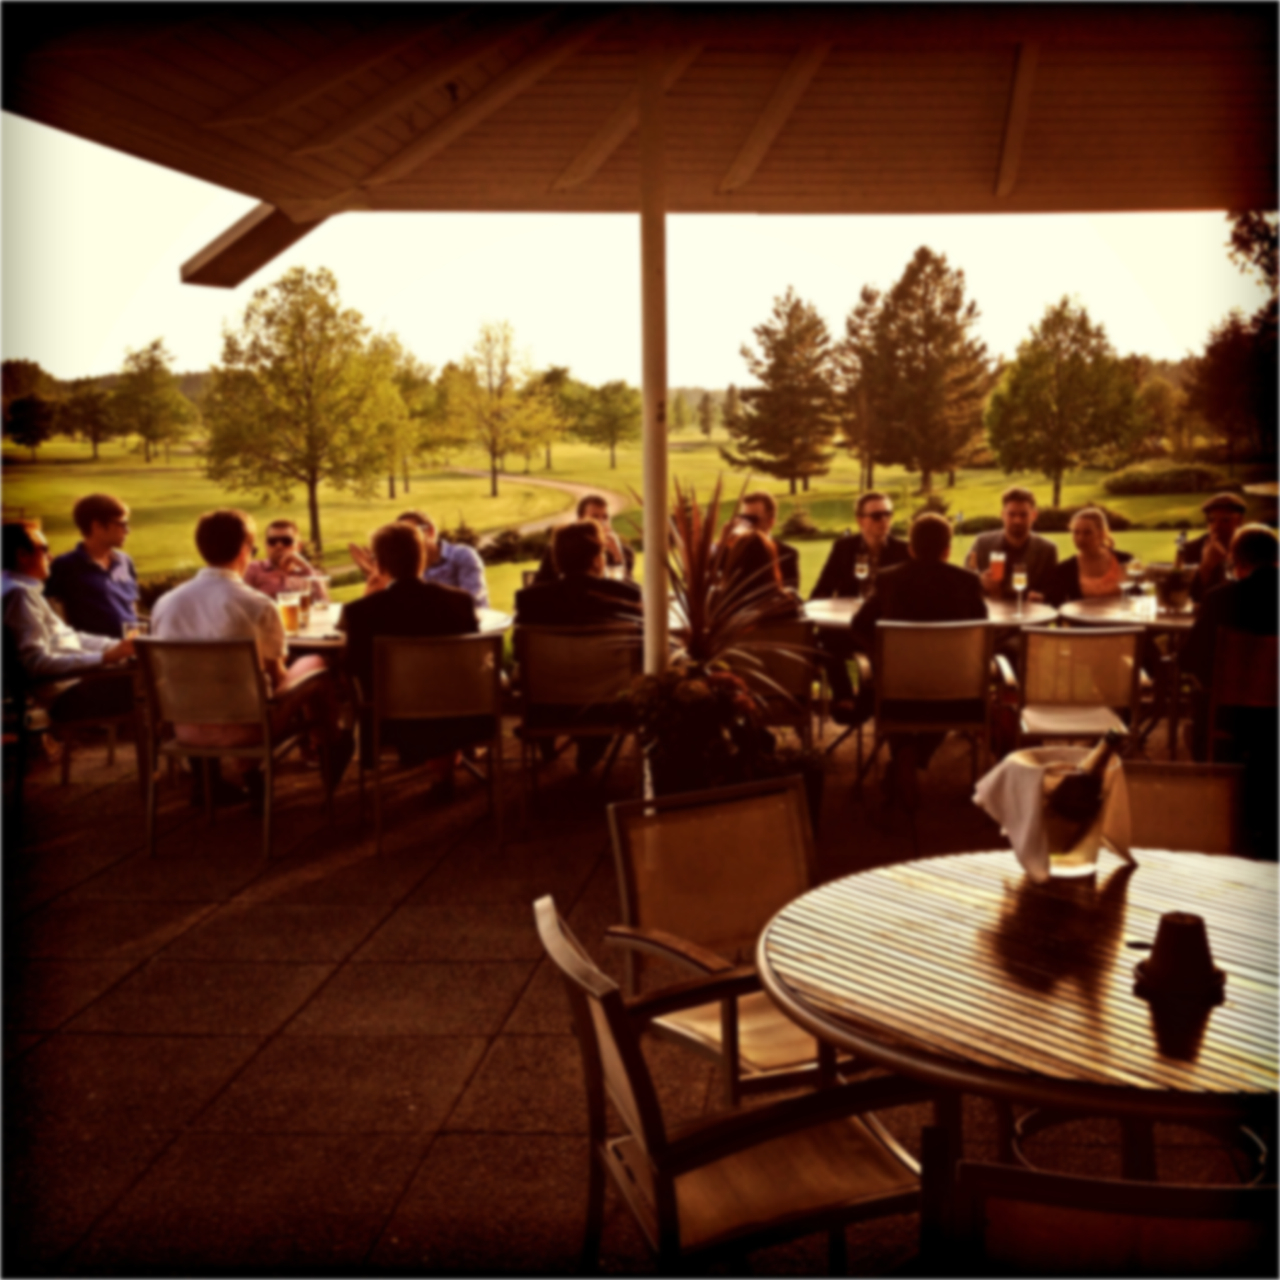
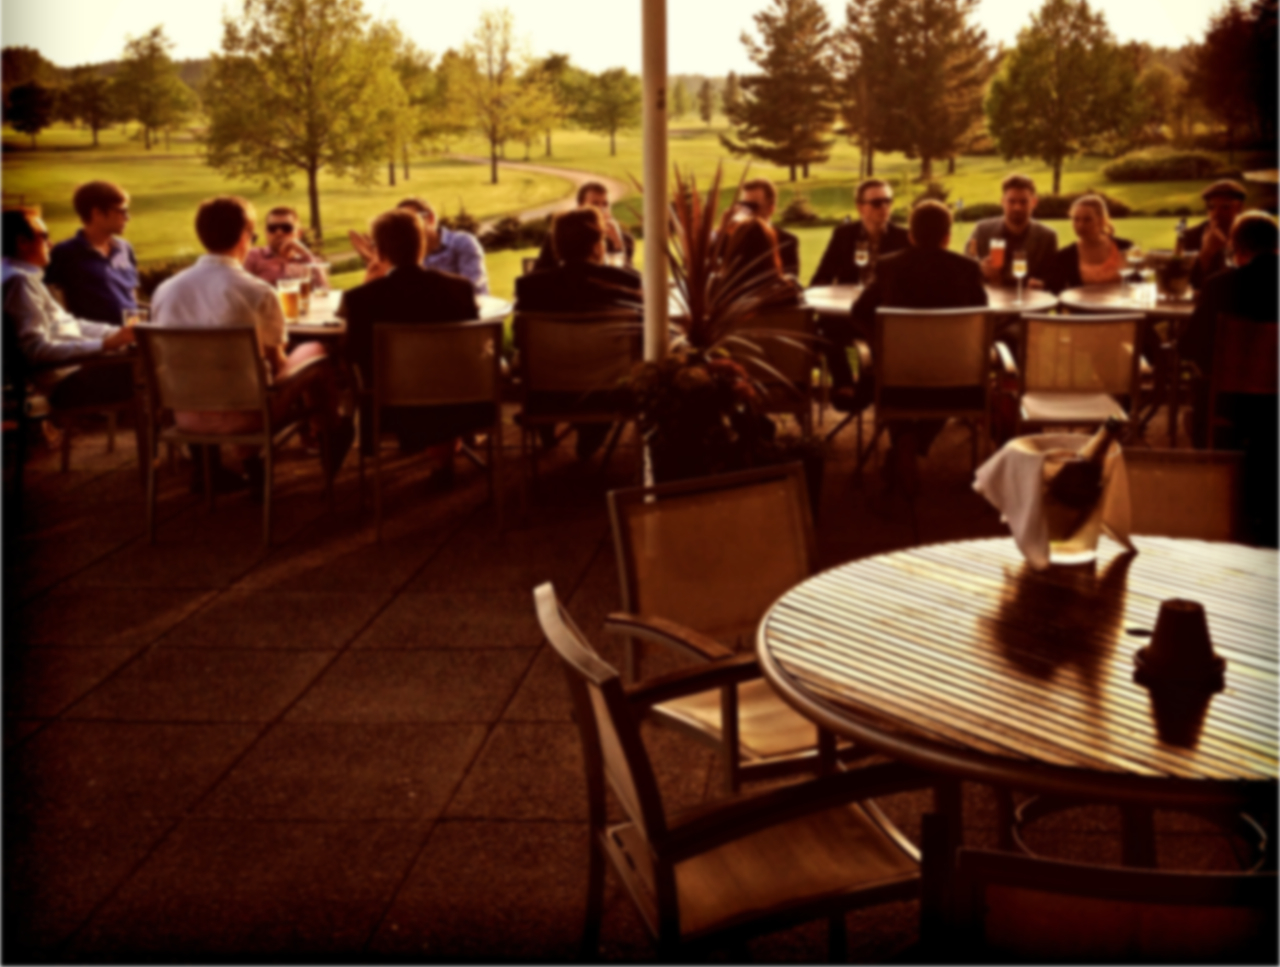
Changed background sizes and made the elements work on mobile...

diff --git a/public/css/styles.css b/public/css/styles.css
@@ -36,18 +36,45 @@
 .thirdSection {
 	margin-top: 35px;
 	padding-top:45px;
+	padding: 10px;
 }
 .whiteBg {
 	background: rgb(255,255,255);
 	border-bottom: 2px rgb(200,200,200) solid;
 }
 
+@media (max-width: 1280px) and (min-width: 721px) {
+	#index {
+	background: url(/images/tournoi_rollip_blur1280.jpg) center center no-repeat;
+  }
+}
+
+@media (min-width: 481px) and (max-width: 720px) {
+	#index {
+		background: url(/images/tournoi_rollip_blur480.jpg) center center no-repeat;
+	}
+}
+
+@media (max-width: 480px) {
+	#index {
+		background: url(/images/tournoi_rollip_blur480.jpg) center center no-repeat;
+	}
+}
+
+@media (min-width: 1281px) {
+	#index {
+		 background: url(/images/tournoi_rollip_blur.jpg) center center no-repeat;
+	}
+}
+
 #index {
 	  width:100%;
-	  height:100%;
-	  background: url(/images/tournoi_rollip_blur.jpg) center center no-repeat;
-	  background-size: cover ;
-	  padding: 0px;
+	background-position: center;
+	webkit-background-size: cover;
+	-moz-background-size: cover;
+	 -o-background-size: cover;
+	    background-size: cover;
+	padding: 0px;
 }
 
 #mainContainer {
